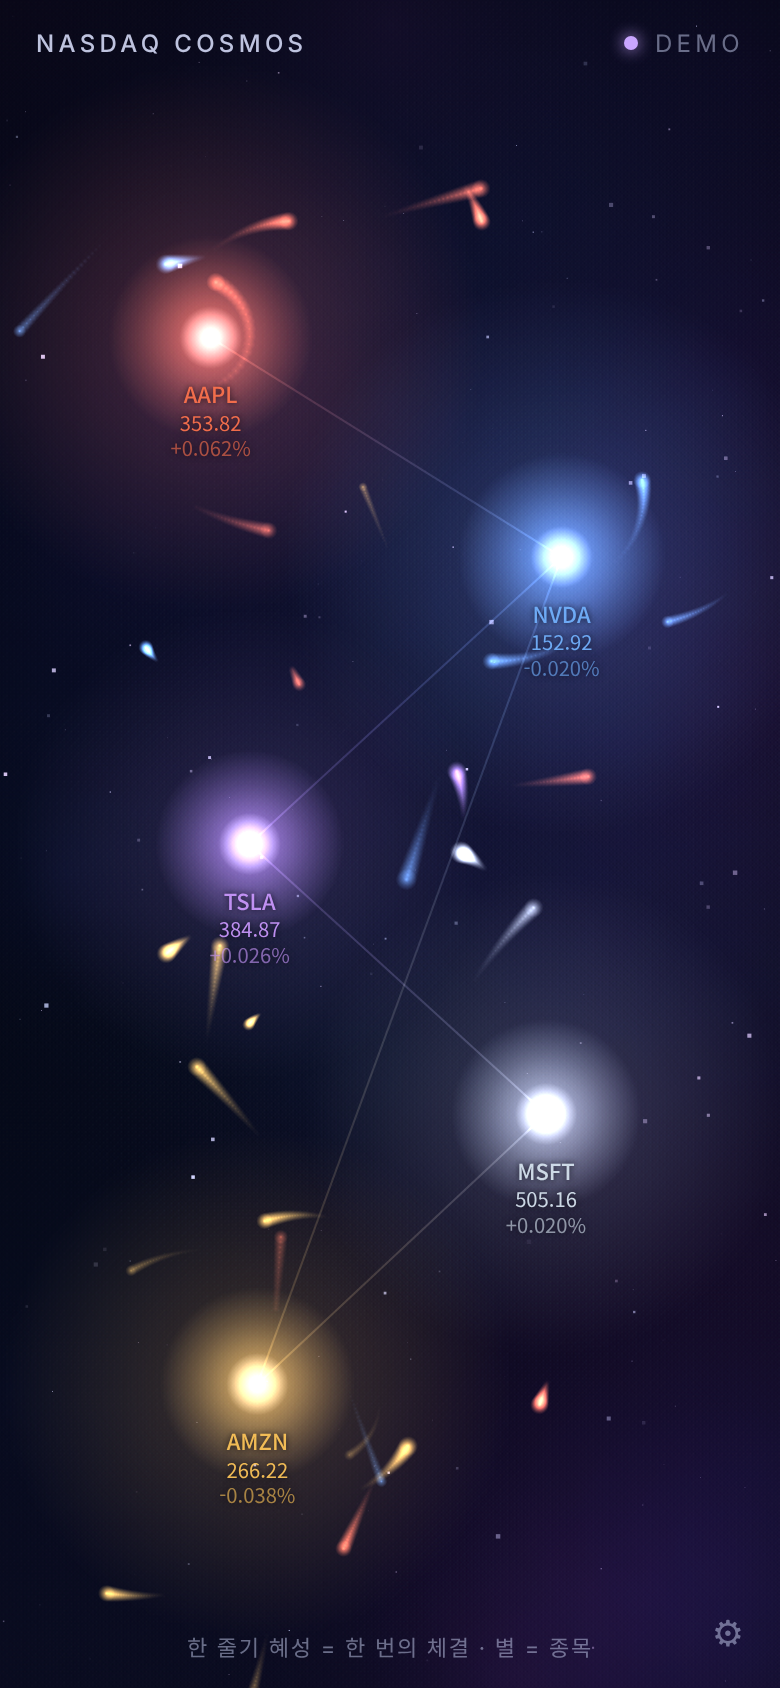
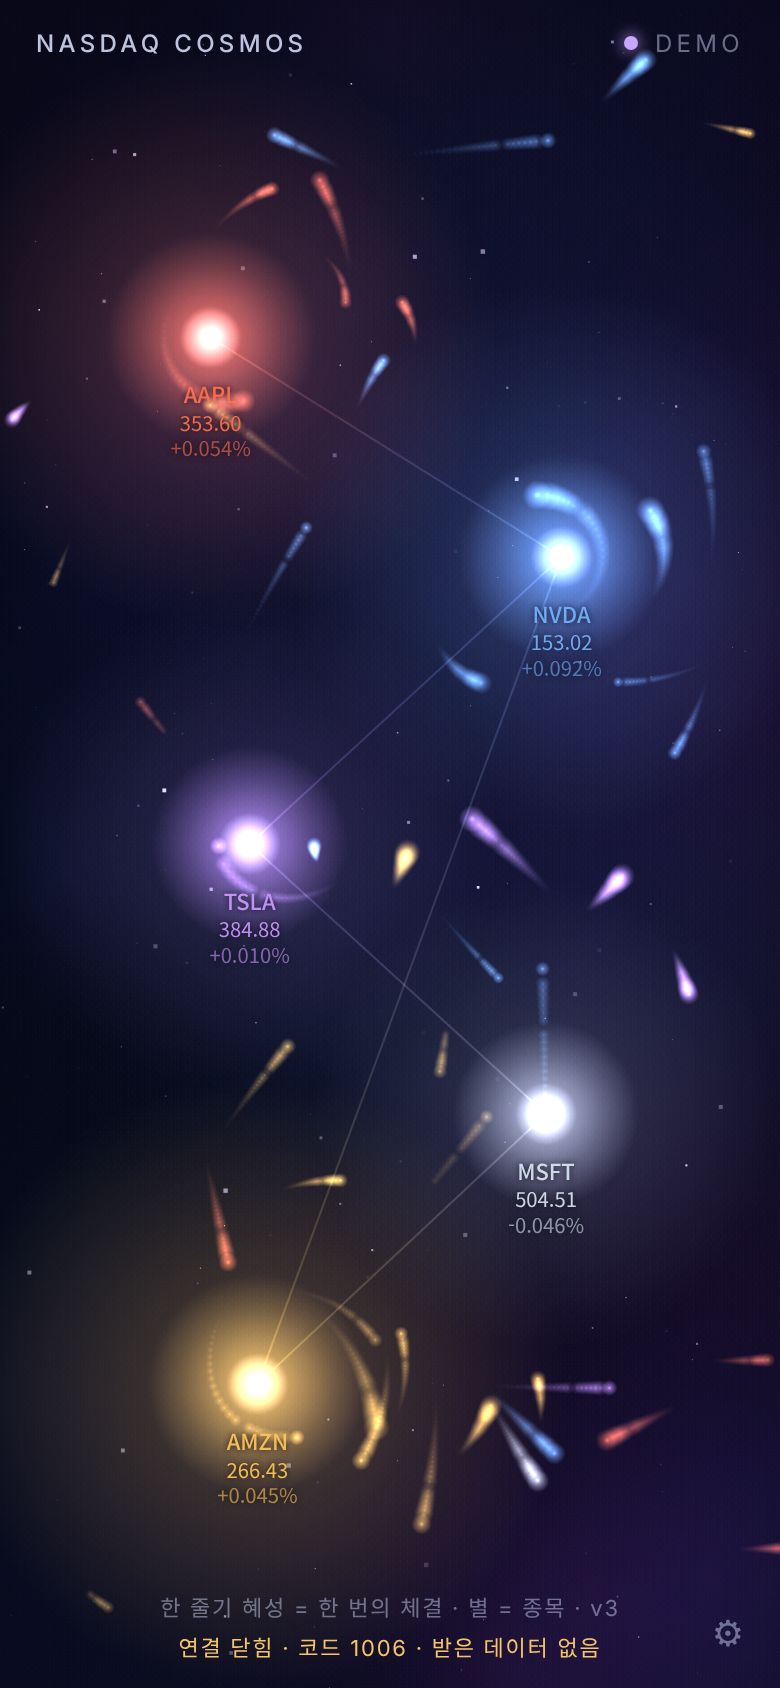
Show version and connection diagnostics on screen
Claude-Session: https://claude.ai/code/session_012XajGATf2bH2FqpCJcgjM2

diff --git a/index.html b/index.html
@@ -56,7 +56,7 @@
 <body>
 <canvas id="c"></canvas>
 <div class="hud"><span class="title">NASDAQ Cosmos</span><span class="status"><span class="dot" id="dot"></span><span id="stat">—</span></span></div>
-<div class="foot">한 줄기 혜성 = 한 번의 체결 · 별 = 종목</div>
+<div class="foot">한 줄기 혜성 = 한 번의 체결 · 별 = 종목 · v3<div id="diag" style="margin-top:4px;color:#f5c46b"></div></div>
 <button class="gear" id="gear" aria-label="설정">⚙</button>
 <div class="toast" id="toast"><span id="toastMsg"></span><button id="toastBtn"></button></div>
 
@@ -272,7 +272,7 @@
     stopDemo(); wantLive = true; mode = 'live'; err.textContent = '';
     if (ws) { try { ws.onclose = null; ws.close(); } catch (e) {} }
     setStatus('wait', '연결 중');
-    let opened = false;
+    let opened = false, msgCount = 0;
     ws = new WebSocket('wss://ws.finnhub.io?token=' + encodeURIComponent(key));
     ws.onopen = () => {
       opened = true; retry = 0;
@@ -282,11 +282,14 @@
       lastTradeAt = performance.now(); toastShown = false;
     };
     ws.onmessage = ev => {
+      msgCount++; if (msgCount === 1) $('diag').textContent = '';
       let m; try { m = JSON.parse(ev.data); } catch (e) { return; }
       if (m.type === 'trade') for (const t of m.data || []) onTrade(t.s, +t.p, +t.v);
-      else if (m.type === 'error') { err.textContent = m.msg || '오류'; }
+      else if (m.type === 'error') { err.textContent = m.msg || '오류'; $('diag').textContent = '서버 메시지: ' + (m.msg || '오류'); }
     };
-    ws.onclose = () => {
+    ws.onerror = () => { $('diag').textContent = '연결 오류 (네트워크 또는 서버 거절)'; };
+    ws.onclose = (ev) => {
+      $('diag').textContent = '연결 닫힘 · 코드 ' + ev.code + (ev.reason ? ' · ' + ev.reason : '') + (msgCount ? '' : ' · 받은 데이터 없음');
       if (!opened) {
         if (key !== DEFAULT_KEY) { try { localStorage.removeItem('fh_key'); } catch (e) {} }
         setStatus('', '연결 실패'); err.textContent = '연결하지 못했습니다. 잠시 후 다시 시도하거나 데모로 보세요.';
